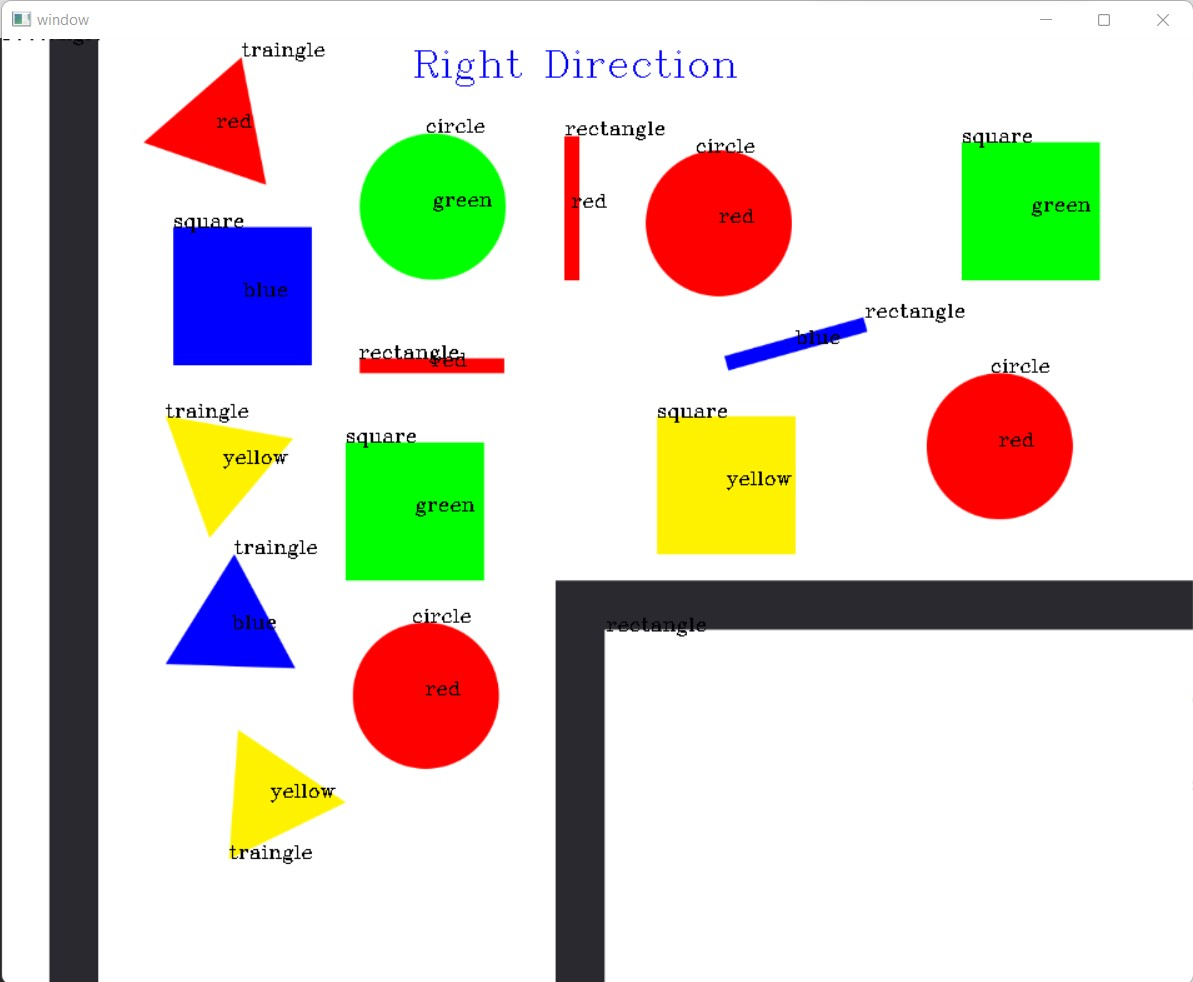
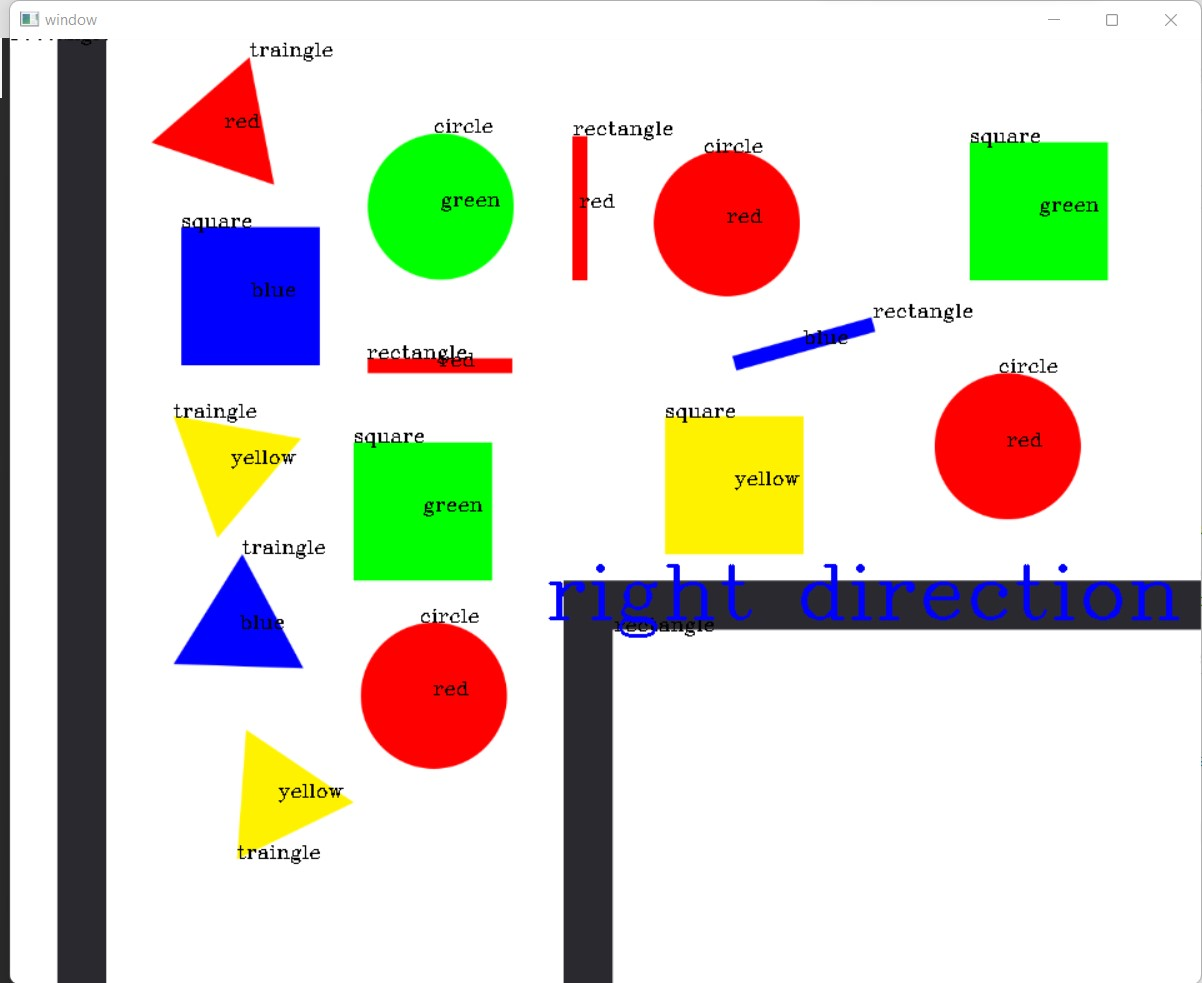
Add files via upload

diff --git a/task2 try.py b/task2 try.py
@@ -1,0 +1,122 @@
+import cv2
+import numpy as np
+
+
+def finddirection(img2,rows,cols):
+    direction="undefined"
+    for i in range (0,rows,1):
+        if img2[i,0][0]<50 and img2[i,0][1]<50 and img2[i,0][2]<50:
+            cv2.putText(img,'left direction',(0,i+29),font,2,(255,0,0),2)
+            print(i,0)
+            direction="left"
+            break
+    if(direction=="undefined"):
+        for i in range (0,rows,1):
+            if img2[i,cols-1][0]<50 and img2[i,cols-1][1]<50 and img2[i,cols-1][2]<50:
+                cv2.putText(img,'right direction',(rows//2 +50,i+29),font,2,(255,0,0),2)
+                print(i,cols-1)
+                direction="right"
+                break
+    if(direction=="undefined"):
+        cv2.putText(img,'forward direction',(100 ,30),font,1,(255,0,0),1)
+
+#function to detect color using r g b values
+def findcolor(x,y,test_img):
+    color="undefined"
+    if test_img[y,x][0]>=0 and  test_img[y,x][0]<=50 and test_img[y,x][1]>=0 and  test_img[y,x][1]<=50 and test_img[y,x][2]>=50 and  test_img[y,x][2]<=255:
+        color="red"
+    elif test_img[y,x][0]>=0 and  test_img[y,x][0]<=150 and test_img[y,x][1]>=160 and  test_img[y,x][1]<=255 and test_img[y,x][2]>=150 and  test_img[y,x][2]<=255:
+        color="yellow"
+    elif test_img[y,x][0]>=0 and  test_img[y,x][0]<=100 and test_img[y,x][1]>=50 and  test_img[y,x][1]<=255 and test_img[y,x][2]>=0 and  test_img[y,x][2]<=100:
+        color="green"
+    elif test_img[y,x][0]>=50 and  test_img[y,x][0]<=255 and test_img[y,x][1]>=0 and  test_img[y,x][1]<=100 and test_img[y,x][2]>=0 and  test_img[y,x][2]<=100:
+        color="blue"
+    else:
+        color=" "
+    return color
+font=cv2.FONT_HERSHEY_COMPLEX #type of font
+
+        
+
+
+
+
+img=cv2.imread('images/test3.png')  #reading image
+img=cv2.resize(img,(0,0),fx=0.7,fy=0.7)  #resizing img
+
+
+img2=cv2.imread('images/test3.png')     #get copy of image
+img2=cv2.resize(img2,(0,0),fx=0.7,fy=0.7)
+
+# print(img.shape)
+rows=img.shape[0]
+cols=img.shape[1]
+
+gray=cv2.cvtColor(img,cv2.COLOR_BGR2GRAY)   #convert it to gray
+
+_,thresold=cv2.threshold(gray,240,255,cv2.THRESH_BINARY)
+contours,_=cv2.findContours(thresold,cv2.RETR_TREE,cv2.CHAIN_APPROX_NONE)   #find contours
+
+for contour in contours:
+    approx=cv2.approxPolyDP(contour,0.01*cv2.arcLength(contour,True),True)    #approx contours
+    #cv2.drawContours(img,[approx],0,(0,0,0),1)
+
+
+    x=approx.ravel()[0]              #find top of shape
+    y=approx.ravel()[1]
+
+
+    M=cv2.moments(contour)
+    if M['m00']!=0.0:                  #find centre of shape
+        x_centre=int(M['m10']/M['m00'])    
+        y_centre=int(M['m01']/M['m00'])
+
+
+    if len(approx) ==3:        #as it has 3 contours ,the shape is traingle
+        #print(approx)
+        cv2.putText(img,'traingle',(x,y),font,0.5,(0,0,0),1)
+        a=findcolor(x_centre,y_centre,img)
+        cv2.putText(img,a,(x_centre,y_centre),font,0.5,(0,0,0),1)
+
+    elif len(approx)==4:          #the shale is square or rectangle
+        area=cv2.contourArea(contour)
+        print(area)
+        if area>133000:
+            pass
+            #cv2.drawContours(img,[approx],0,(0,0,0),3)
+        else:
+            x1,y1,w,h=cv2.boundingRect(approx)
+            aspectRatio=float(w)/h
+            shape="square" if aspectRatio >= 0.95 and aspectRatio <= 1.05 else "rectangle"
+            cv2.putText(img,shape,(x,y),font,0.5,(0,0,0),1)
+            a=findcolor(x_centre,y_centre,img)
+            cv2.putText(img,a,(x_centre,y_centre),font,0.5,(0,0,0),1)
+
+        
+        
+    
+    elif len(approx)==6:
+        #cv2.drawContours(img,[approx],0,(0,0,0),3)
+        pass
+
+
+
+    else:                    #if else ,the shape is a circle
+        cv2.putText(img,'circle',(x,y),font,0.5,(0,0,0),1)
+        a=findcolor(x_centre,y_centre,img)
+        cv2.putText(img,a,(x_centre,y_centre),font,0.5,(0,0,0),1)
+
+
+
+finddirection(img2,rows,cols)
+
+cv2.imshow('window',img)      #show image
+cv2.waitKey(0)
+cv2.destroyAllWindows()
+
+
+
+
+
+
+
